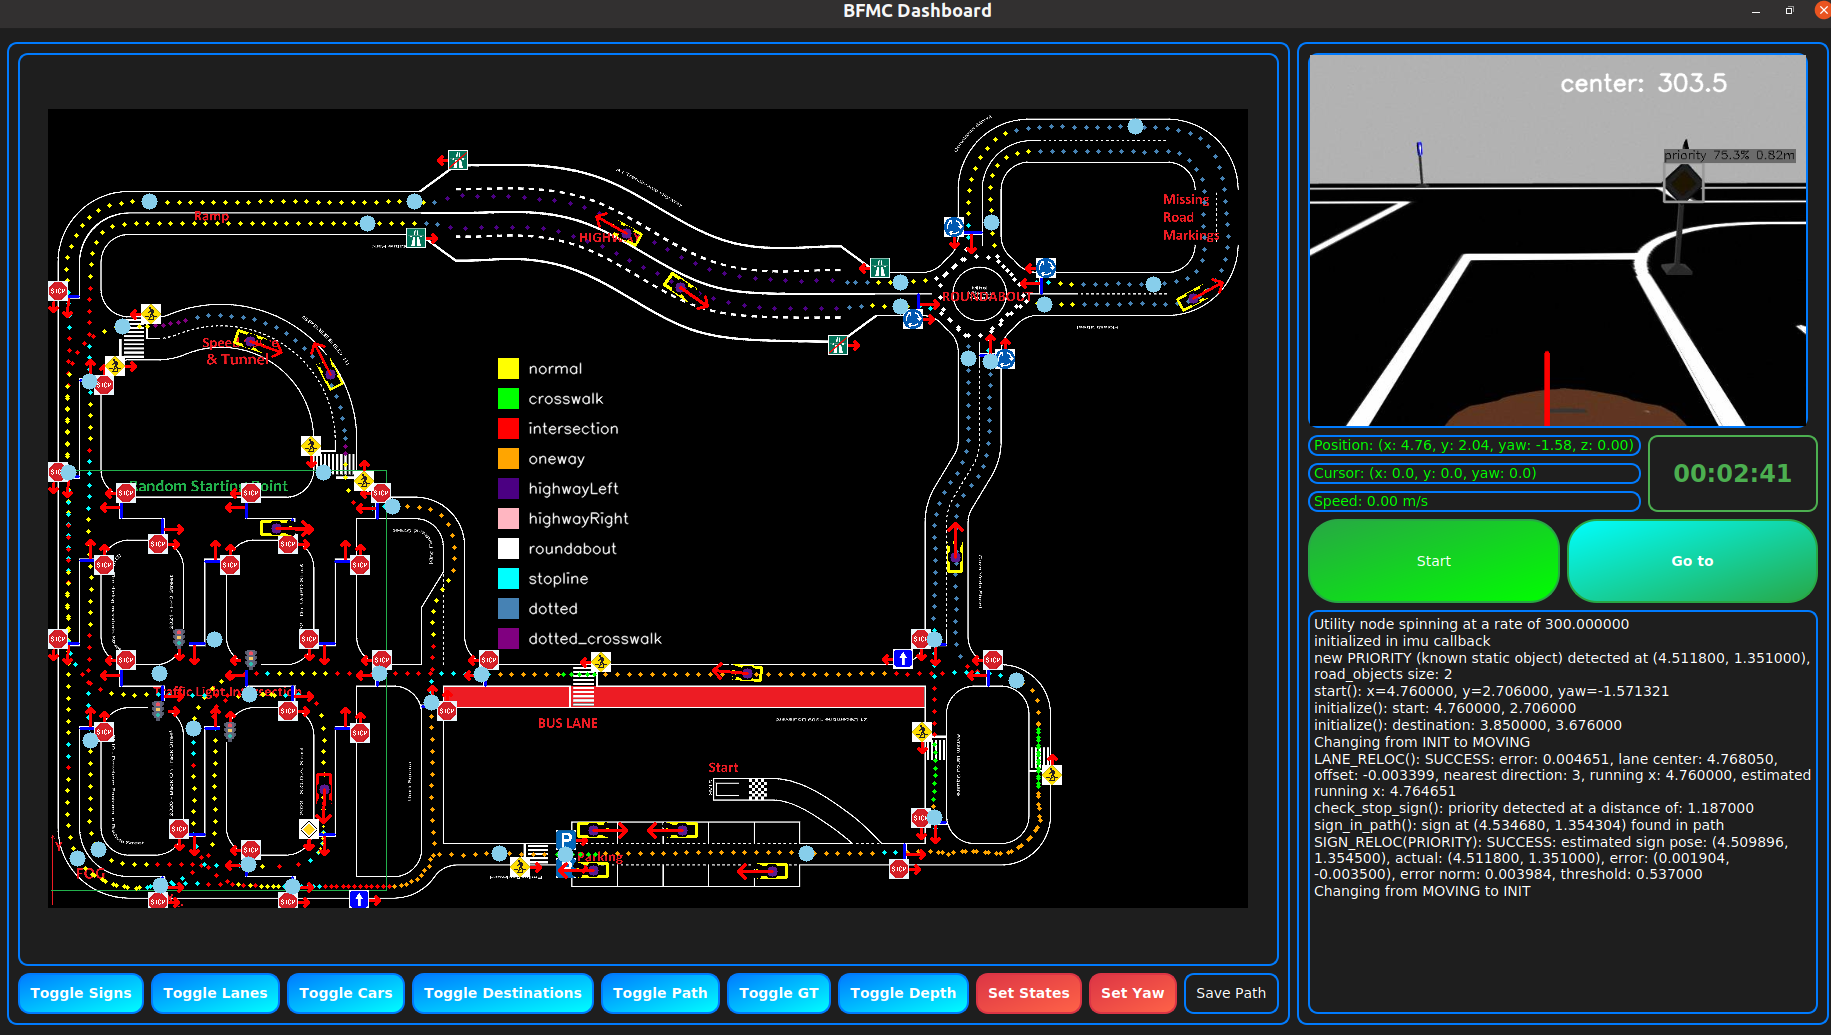
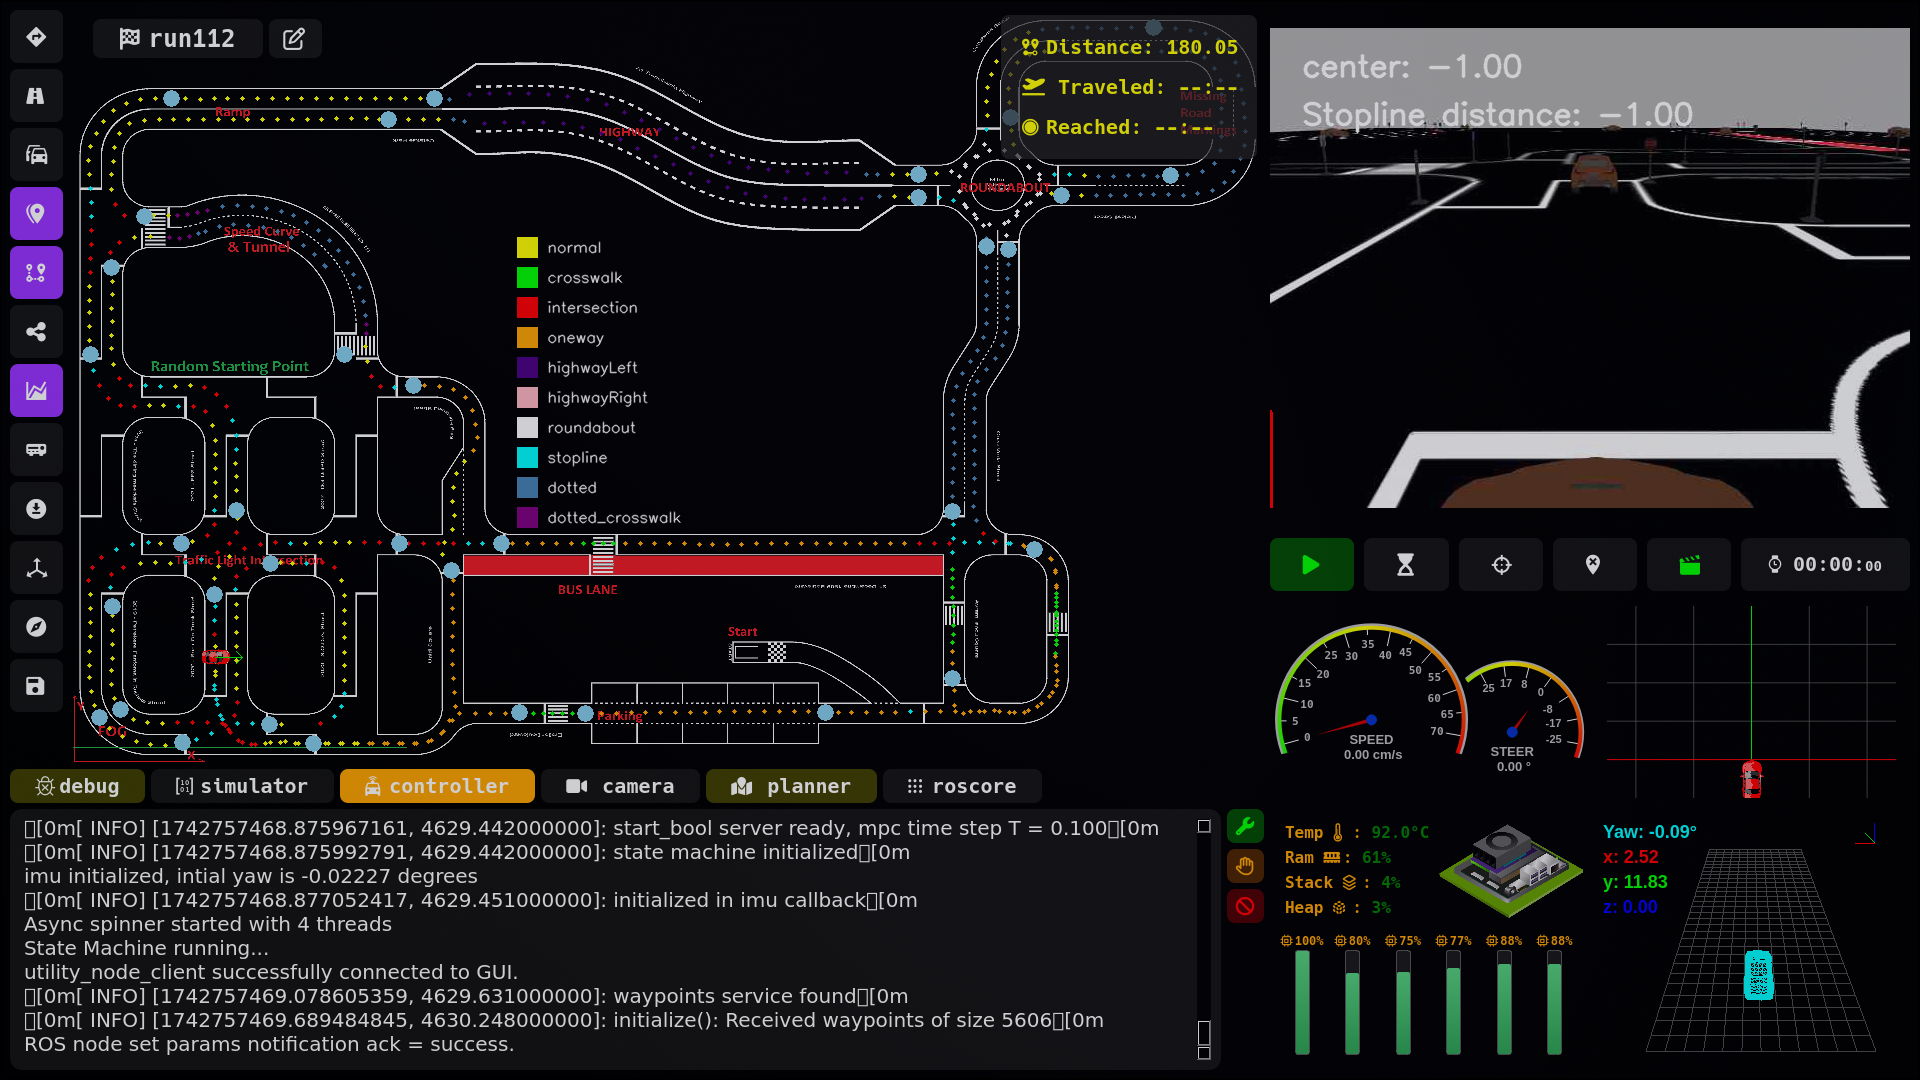
readme

diff --git a/README.md b/README.md
@@ -67,6 +67,8 @@ This package contains firmware modified from Bosch’s provided code to interfac
   - **Start/stop controls**
   - **Path re-planning**
   - **Object toggling**
+  - **Ros node launching**
+  - **Real time object detection**
 ![MPC Preview](assets/gui.png)
 
 
